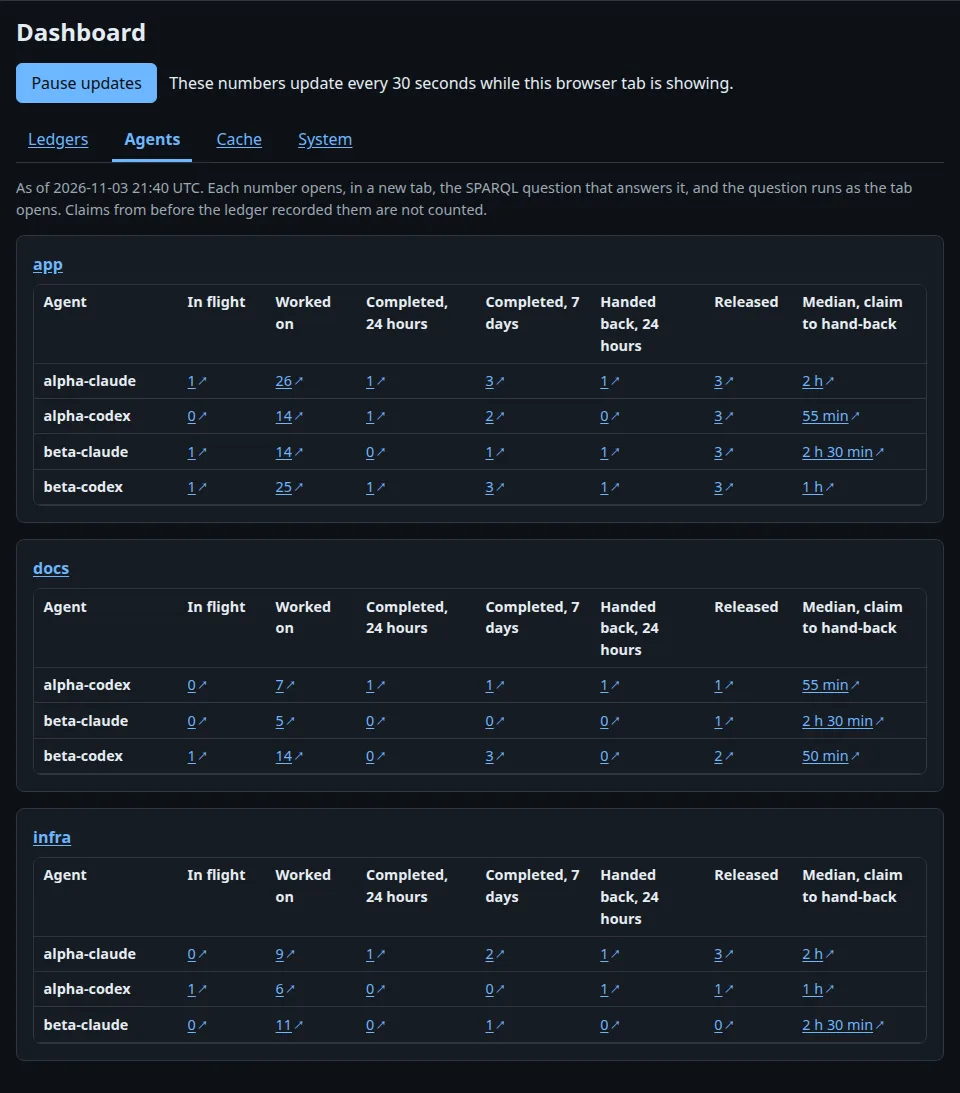
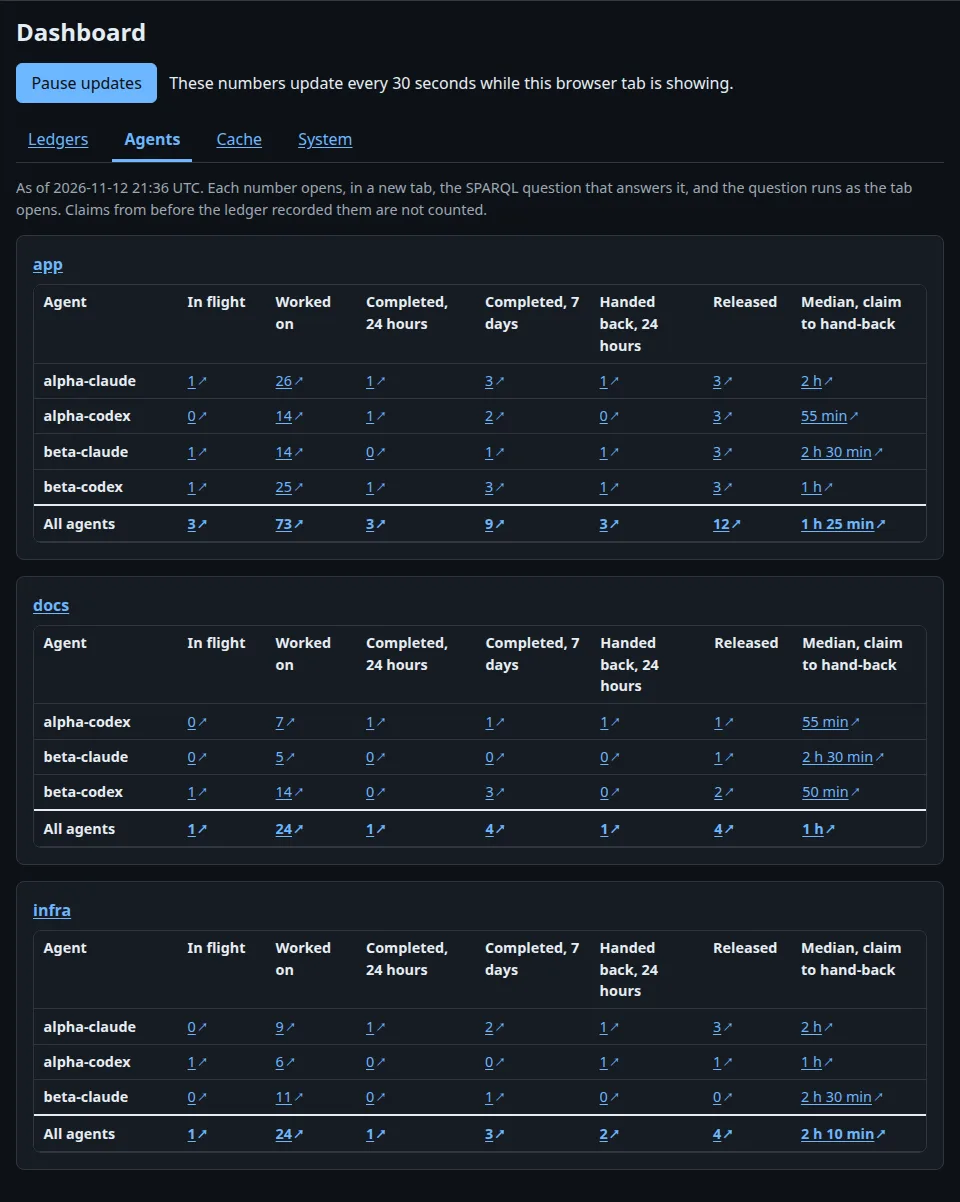
docs(gonk): catch up with ledger-v0.21.8 behavior (#301)

diff --git a/books/gonk/src/ledger/browser.md b/books/gonk/src/ledger/browser.md
@@ -126,6 +126,52 @@ denied: this capability does not hold `urn:cap:store:read:graph:urn:iki:ledger:g
 The HTML page is the same resource for a person: an editor over one ledger's graph, with the
 answer rendered as a table.
 
+## Render rules and CURIEs
+
+The HTML results follow a rule table served at `/render-rules`. It matches a cell's term kind,
+value and prefix, so an item IRI can link to its item regardless of the query's variable name.
+The bare-integer rule also checks the column name: a count of three comments must not link to
+item 3. Read the table the running server uses:
+
+<!-- transcript: run -->
+```console
+$ curl -s http://localhost:1070/render-rules | grep '^ *render:curie' | awk '{$1=$1; print}'
+render:curie "ledger" .
+```
+
+Abbreviation is a rule too (gonk PR 357). A deployment can put this rule in its replacement table
+at `<config home>/gonk/render-rules.ttl`:
+
+```turtle
+@prefix render: <urn:iki:gonk:render#> .
+<urn:example:curie> a render:Rule ;
+    render:matchKind "uri" ;
+    render:matchPrefix "https://example.org/vocab#" ;
+    render:curie "example" .
+```
+
+An IRI `https://example.org/vocab#open` then displays as `example:open`. Above the table, a
+visible legend binds each prefix actually used once, including prefixes in linked cells.
+The shipped table abbreviates the ledger vocabulary as `ledger:`. Display and control rules
+match independently: links still match and substitute the full IRI, and their accessible names
+include the visible CURIE. Each side orders rules by `render:order`, then the rule IRI.
+A CURIE rule needs one namespace and `matchKind "uri"`; conflicting prefix bindings stop startup.
+Replacing the table replaces abbreviation and controls together; an empty table leaves full IRIs
+without controls. CSV and other machine results keep the original IRIs. Compare the same
+constant in the two representations:
+
+<!-- transcript: run -->
+```console
+$ curl -s -G --data-urlencode 'query=SELECT (<https://ikigai-rs.dev/ns/ledger#open> AS ?state) WHERE {}' http://localhost:1070/sparql > results.html
+$ grep -o "<td class='uri'[^<]*</td>" results.html | sed 's/<[^>]*>//g'
+ledger:open
+$ grep -o 'ledger: is short for [^<]*' results.html
+ledger: is short for https://ikigai-rs.dev/ns/ledger# — this table writes it that way.
+$ curl -s -G -H 'Accept: text/csv' --data-urlencode 'query=SELECT (<https://ikigai-rs.dev/ns/ledger#open> AS ?state) WHERE {}' http://localhost:1070/sparql
+state
+https://ikigai-rs.dev/ns/ledger#open
+```
+
 ## A form is a ledger action
 
 The form a signed-in writer sees does not write anything gonk invented. It posts to `/act`,
@@ -205,6 +251,26 @@ would run the model and archive its answer under the signed-in identity's grant.
 `<img>` did (gonk PR 100, ledger #880). The read half, for a navigation, is the same caution
 one step milder: following a link from elsewhere shows what the identity may read, and does
 not spend on its behalf.
+
+## When gonk restarts
+
+Every full page carries the process instance id from the startup banner in a `gonk-instance`
+meta tag. `/instance` answers that same id as plain text; it changes at every start, even when
+the binary version and store stay the same (gonk PR 356):
+
+<!-- transcript: run -->
+```console
+$ curl -s http://localhost:1070/instance > instance.txt
+$ curl -s http://localhost:1070/ | grep -o "<meta name='gonk-instance' content='[^']*'>" | grep -F "$(cat instance.txt)"
+<meta name='gonk-instance' content='…'>
+```
+
+A visible tab checks once a minute, and checks immediately when it becomes visible again or
+returns from the browser's back/forward cache. When the id differs, it shows “gonk has restarted
+since this page loaded, so what it shows may be out of date. Reload this page” and announces it
+once through the page's status region. It stops polling and leaves focus where it was. Failed
+checks stay silent; without JavaScript no restart notice appears. Reload to get the new page
+and sign in again: sessions end on restart.
 
 ## Who you are, and what that grants
 
@@ -300,6 +366,40 @@ focus, and a browser refuses a sign-in prompt from a page without it. The invite
 single-use and expires; gonk stores only its hash, and it is the whole trust anchor of the
 registration, so no attestation is parsed. After signing in, `/l/book` is a ledger page
 rather than a refusal, and every write `ada` makes carries her passkey as its author.
+
+### Extra scopes and adding a grant
+
+`passkey invite` also accepts repeatable `--scope <urn>` for tokens no role flag names (gonk
+PR 348). They join the role tokens in one grant write, with duplicates stored once. A scope
+must be a valid, permitted `urn:cap:` token; malformed values, owner tokens, door markers and
+broad `exec:*` or `net:*` tokens are refused before anything is written. For example, a face
+that reads a mounted socket peer needs its read token and `urn:cap:net:localhost`:
+
+<!-- transcript: run -->
+```console
+$ ikigai-gonk passkey invite metrics --ledger book=read --scope urn:cap:metrics:read --scope urn:cap:net:localhost --port 1070 --config-home "$PWD/.config/ikigai"
+passkey invite for `metrics` — grant `metrics` (4 scopes) in …/.config/ikigai/gonk/grants.json
+  valid for 30 minutes, once
+  open  http://localhost:1070/#invite=…
+  in a browser on this machine (localhost, not 127.0.0.1); the passkey is enrolled in …/.config/ikigai/gonk/clients.json
+```
+
+With `--force`, the grant becomes exactly the role flags plus the `--scope` values, including
+narrowing: leaving an old scope off removes it. Rewriting a shared grant affects every identity
+using it. To widen just one enrolled passkey, the owner instead runs `ikigai-gonk passkey grant
+add <label> <grant> --config-home <config home>` (or selects it with `--credential <id>`).
+The grant must already exist with scopes and the passkey must not already hold it. The command
+changes that passkey alone, records `PasskeyGrantAdded` with `by=owner`, and leaves its live
+sessions signed in; their next request sees the union of its grants (gonk PR 349).
+`passkey list` shows the grants, their scopes and the addition. `passkey grant remove` removes
+one grant; removing the last is refused, so use `passkey revoke` to remove the passkey.
+
+An invite redeemed while signed in can instead add its grant to that passkey after a fresh
+passkey assertion, or create a new passkey. On the add path, gonk ends **all old sessions before
+writing the wider grant**, then opens one new session from the assertion (gonk PR 352). An old
+cookie cannot read the wider grant in between. If recording the widening fails, the grant change
+is undone and the passkey stays signed out; sign in again. Owner `grant add` deliberately keeps
+sessions; the owner can end them with `passkey logout --all`.
 
 ## What it wrote down
 

diff --git a/books/gonk/src/ledger/dashboard.md b/books/gonk/src/ledger/dashboard.md
@@ -245,8 +245,8 @@ totals agree and the past does not. If you know which comment closed an item, na
 The second tab is a table per ledger, with a row per holder who ever took a claim there:
 
 <figure class="gonk-shot">
-<a class="gonk-scheme-light" href="dashboard/img/agents-light.webp"><img src="dashboard/img/agents-light.webp" loading="lazy" alt="The Dashboard's Agents tab: a sentence saying each number opens the SPARQL question that answers it, then three tables headed app, docs and infra. Each table has a row per holder and the columns In flight, Worked on, Completed in 24 hours, Completed in 7 days, Handed back in 24 hours, Released, and Median from claim to hand-back. app lists all four holders, docs lists alpha-codex, beta-claude and beta-codex, infra lists alpha-claude, alpha-codex and beta-claude. Their numbers differ from table to table."></a><a class="gonk-scheme-dark" href="dashboard/img/agents-dark.webp"><img src="dashboard/img/agents-dark.webp" loading="lazy" alt="The Dashboard's Agents tab: a sentence saying each number opens the SPARQL question that answers it, then three tables headed app, docs and infra. Each table has a row per holder and the columns In flight, Worked on, Completed in 24 hours, Completed in 7 days, Handed back in 24 hours, Released, and Median from claim to hand-back. app lists all four holders, docs lists alpha-codex, beta-claude and beta-codex, infra lists alpha-claude, alpha-codex and beta-claude. Their numbers differ from table to table."></a>
-<figcaption>The Agents tab: one table per ledger, one row per holder, every number a link.</figcaption>
+<a class="gonk-scheme-light" href="dashboard/img/agents-light.webp"><img src="dashboard/img/agents-light.webp" loading="lazy" alt="The Dashboard's Agents tab: a sentence saying each number opens the SPARQL question that answers it, then three tables headed app, docs and infra. Each table has a row per holder, an All agents totals row, and the columns In flight, Worked on, Completed in 24 hours, Completed in 7 days, Handed back in 24 hours, Released, and Median from claim to hand-back. app lists all four holders, docs lists alpha-codex, beta-claude and beta-codex, infra lists alpha-claude, alpha-codex and beta-claude. Their numbers differ from table to table."></a><a class="gonk-scheme-dark" href="dashboard/img/agents-dark.webp"><img src="dashboard/img/agents-dark.webp" loading="lazy" alt="The Dashboard's Agents tab: a sentence saying each number opens the SPARQL question that answers it, then three tables headed app, docs and infra. Each table has a row per holder, an All agents totals row, and the columns In flight, Worked on, Completed in 24 hours, Completed in 7 days, Handed back in 24 hours, Released, and Median from claim to hand-back. app lists all four holders, docs lists alpha-codex, beta-claude and beta-codex, infra lists alpha-claude, alpha-codex and beta-claude. Their numbers differ from table to table."></a>
+<figcaption>The Agents tab: one table per ledger, one row per holder plus All agents totals, every number a link.</figcaption>
 </figure>
 
 Anyone who may read a ledger can read its Agents table, with `curl` or a browser. The words each link
@@ -262,6 +262,26 @@ alpha-claude: 3 completed in the last 7 days, opens in a new tab
 alpha-claude: 1 handed back in the last 24 hours, opens in a new tab
 alpha-claude: 3 released without a hand-back, opens in a new tab
 alpha-claude: 2 h from claim to hand-back, the median, opens in a new tab
+```
+
+Each table ends with **All agents** (gonk PR 292). It asks each question across all holders,
+not by adding their cells: if two agents worked on the same item, Worked on counts that item
+once. Here `app`'s Worked on total is 73, while its holder rows sum to 79.
+In flight, Worked on, Completed and Released count distinct items; Handed back counts
+hand-backs, and the median uses all hand-backs, rather than the medians of the holders. Each
+total links to its own SPARQL question, and a viewer sees totals only for ledgers they may read.
+An empty median says `none`; a failed read says `unavailable`.
+
+<!-- transcript: run -->
+```console
+$ curl -s http://127.0.0.1:1070/dashboard/panel/agents | grep -o 'All agents: </span>[^/]*</span>' | sed -n 1,7p | sed 's/<[^>]*>//g'
+All agents: 3 in flight, opens in a new tab
+All agents: 73 worked on, opens in a new tab
+All agents: 3 completed in the last 24 hours, opens in a new tab
+All agents: 9 completed in the last 7 days, opens in a new tab
+All agents: 3 handed back in the last 24 hours, opens in a new tab
+All agents: 12 released without a hand-back, opens in a new tab
+All agents: 1 h 25 min from claim to hand-back, the median, opens in a new tab
 ```
 
 What each one counts:

diff --git a/books/gonk/src/faces/own.md b/books/gonk/src/faces/own.md
@@ -22,13 +22,19 @@ under the viewer's own session.
 | served by gonk, read-only, from that directory alone | a way to change gonk's own pages or their theme |
 | a reader of gonk's routes, as the person viewing it | a new authority: it can read only what that person can |
 
+A face can also read a [mounted peer through the HTTP door](../machines/doors.md#mounted-spaces-through-http).
+For a peer mounted at `urn:metrics:`, `fetch('/metrics/today', {headers: {Accept: 'application/json'}})`
+reads `urn:metrics:today` as the signed-in viewer. Use the mechanical route, not
+`/resolution/iri/`, which renders pages. That viewer's grants must hold the peer's read token
+and `urn:cap:net:<the peer's host>` (`localhost` for a socket); the face itself adds no authority.
+
 So a face shows nothing its viewer could not read by hand. It can change nothing that gonk did not
 already let that viewer change. The starter's faces only read.
 
 ## What you need
 
 `ikigai-gonk` and `ikigai`, as [Which gonk](../introduction.md#which-gonk) installs them, plus
-`git` and `curl`. The gonk this book pins is the first that serves faces (ikigai-gonk PR 295).
+`git` and `curl`. The gonk this book pins serves faces (introduced in ikigai-gonk PR 295).
 A browser is what a face is for. To check one from a shell, as this chapter does, you also need
 [Deno](https://deno.com) 2, which runs the same JavaScript modules the browser loads.
 

diff --git a/books/gonk/src/ways/workers.md b/books/gonk/src/ways/workers.md
@@ -543,3 +543,19 @@ $ grep -E '^# (floor_gb|every = "6h"|prune_after)' library/worker/worker.sample.
 Profiles combine (`--process workers,spec` adds [spec first](spec-first.md)'s rules, and no
 `--process` at all means `solo,workers,spec`); only [unled audits](audits.md) and [review every
 commit](review-every-commit.md) refuse each other.
+
+## Claims renewed through a task layer
+
+A deployment can bind a ledger to a shared task layer with `gonk.layer`. In the offering role,
+gonk mirrors a taken offer as a seven-day claim for its taker. A freshly taken `Progress` report
+renews that claim only while its offer is the item's **newest offer** (gonk PR 359). Late Progress
+on an older, released offer can still leave its keyed note, but cannot extend the successor's
+claim, even when the same participant took both offers. Release and Handback also check which
+offer is current.
+
+There is an accepted stop window (gonk PR 360): if the mirror takes Progress just before it stops,
+restart recovers the report and its keyed note but may lose that renewal. Replaying receipts or
+sweeping again never renews a claim. The next freshly taken Progress renews a still-held claim;
+keep reporting before the existing lease expires. An idle taker cannot keep a lease through
+repeated restarts. This is the task-layer mirror's rule; the worker loop above renews directly
+with `claim renew=true`.

diff --git a/books/gonk/src/machines/doors.md b/books/gonk/src/machines/doors.md
@@ -71,6 +71,22 @@ a real one.)
 you can" to "must": gonk refuses to start with a bind named and no certificate enrolled, rather
 than run with the door silently shut.
 
+## Mounted spaces through HTTP
+
+A [`gonk.mount` peer](../browse/explain.md#mounting-a-peer-under-any-prefix) is reachable through
+the HTTP door too. Use the mechanical routes
+`/<scheme>/<path>`: for the `urn:metrics:` prefix, `/metrics/today` names
+`urn:metrics:today` (the mechanical mapping adds `urn:` and joins path segments with colons).
+The method supplies the verb, query parameters the arguments, and `Accept` the representation.
+`/resolution/iri/{iri}` renders a page about a name; it is not the route to read a mounted
+resource's bytes.
+
+The browser caller needs **both** the peer's read token and `urn:cap:net:<the peer's host>`
+(`urn:cap:net:localhost` for a Unix socket). A mount does not give anonymous callers these
+scopes. Add them to an invite with the repeatable `--scope` flag described in
+[The ledger in a browser](../ledger/browser.md#extra-scopes-and-adding-a-grant). A face makes
+these requests under its viewer's session, as [Pages of your own](../faces/own.md) explains.
+
 ## One request through each door
 
 <!-- transcript: run -->

diff --git a/books/gonk/src/browse/explain.md b/books/gonk/src/browse/explain.md
@@ -242,7 +242,12 @@ means that an absent peer costs that prefix alone: there is no dial at startup, 
 dial backs off from 1 second to 30 seconds. A peer may listen on a Unix socket or a `quic://`
 address; the certificate directory is the one the CLI's `--cert-dir` reads. Each peer has
 20 seconds to describe itself, two thirds of the deadline gonk's callers give gonk. A caller
-needs `urn:cap:net:<the peer's host>` (`localhost` for a socket) to reach a mounted peer.
+needs the peer's read token as well as `urn:cap:net:<the peer's host>` (`localhost` for a
+socket) to read a mounted resource. At the HTTP door, use the mechanical route: for example,
+`/dashboard/today` reads `urn:dashboard:today`. `/resolution/iri/` renders pages rather than
+reading the peer's bytes. A [face](../faces/own.md) can read the mechanical route under its
+viewer's session, provided that viewer holds both scopes; see
+[Mounted spaces through HTTP](../machines/doors.md#mounted-spaces-through-http).
 
 Only the exact `urn:llm:` mount spends the model-call window,
 `gonk.mount.calls_per_hour`, and binds explain, review and `urn:nl:sparql`. A dashboard or

diff --git a/books/gonk/src/whats-new.md b/books/gonk/src/whats-new.md
@@ -7,6 +7,10 @@ What has changed in The gonk Book, most recent first: the date, what was added o
 
 ## 2026-11
 
+- **2026-11-12**: SPARQL results explain CURIE render rules and prefix legends. The browser chapter covers restart notices, extra invite scopes and passkey grant additions; mounted reads explain routes and permissions, the Dashboard gains All agents totals, and Remote workers explains task-layer renewal limits across offers and restarts.
+
+  Pages: [The ledger in a browser](ledger/browser.md), [Explain, with a mounted model](browse/explain.md), [The three doors, and who is asking](machines/doors.md), [Pages of your own](faces/own.md), [The Dashboard](ledger/dashboard.md), [Remote workers](ways/workers.md)
+
 - **2026-11-12**: The updated gonk examples show claim epochs, the process instance line, and access records in hash-chained log segments, including each door's principal and credential, and corrected face links.
 
   Pages: [The ledger in a browser](ledger/browser.md), [The three doors, and who is asking](machines/doors.md), [Remote workers](ways/workers.md)
